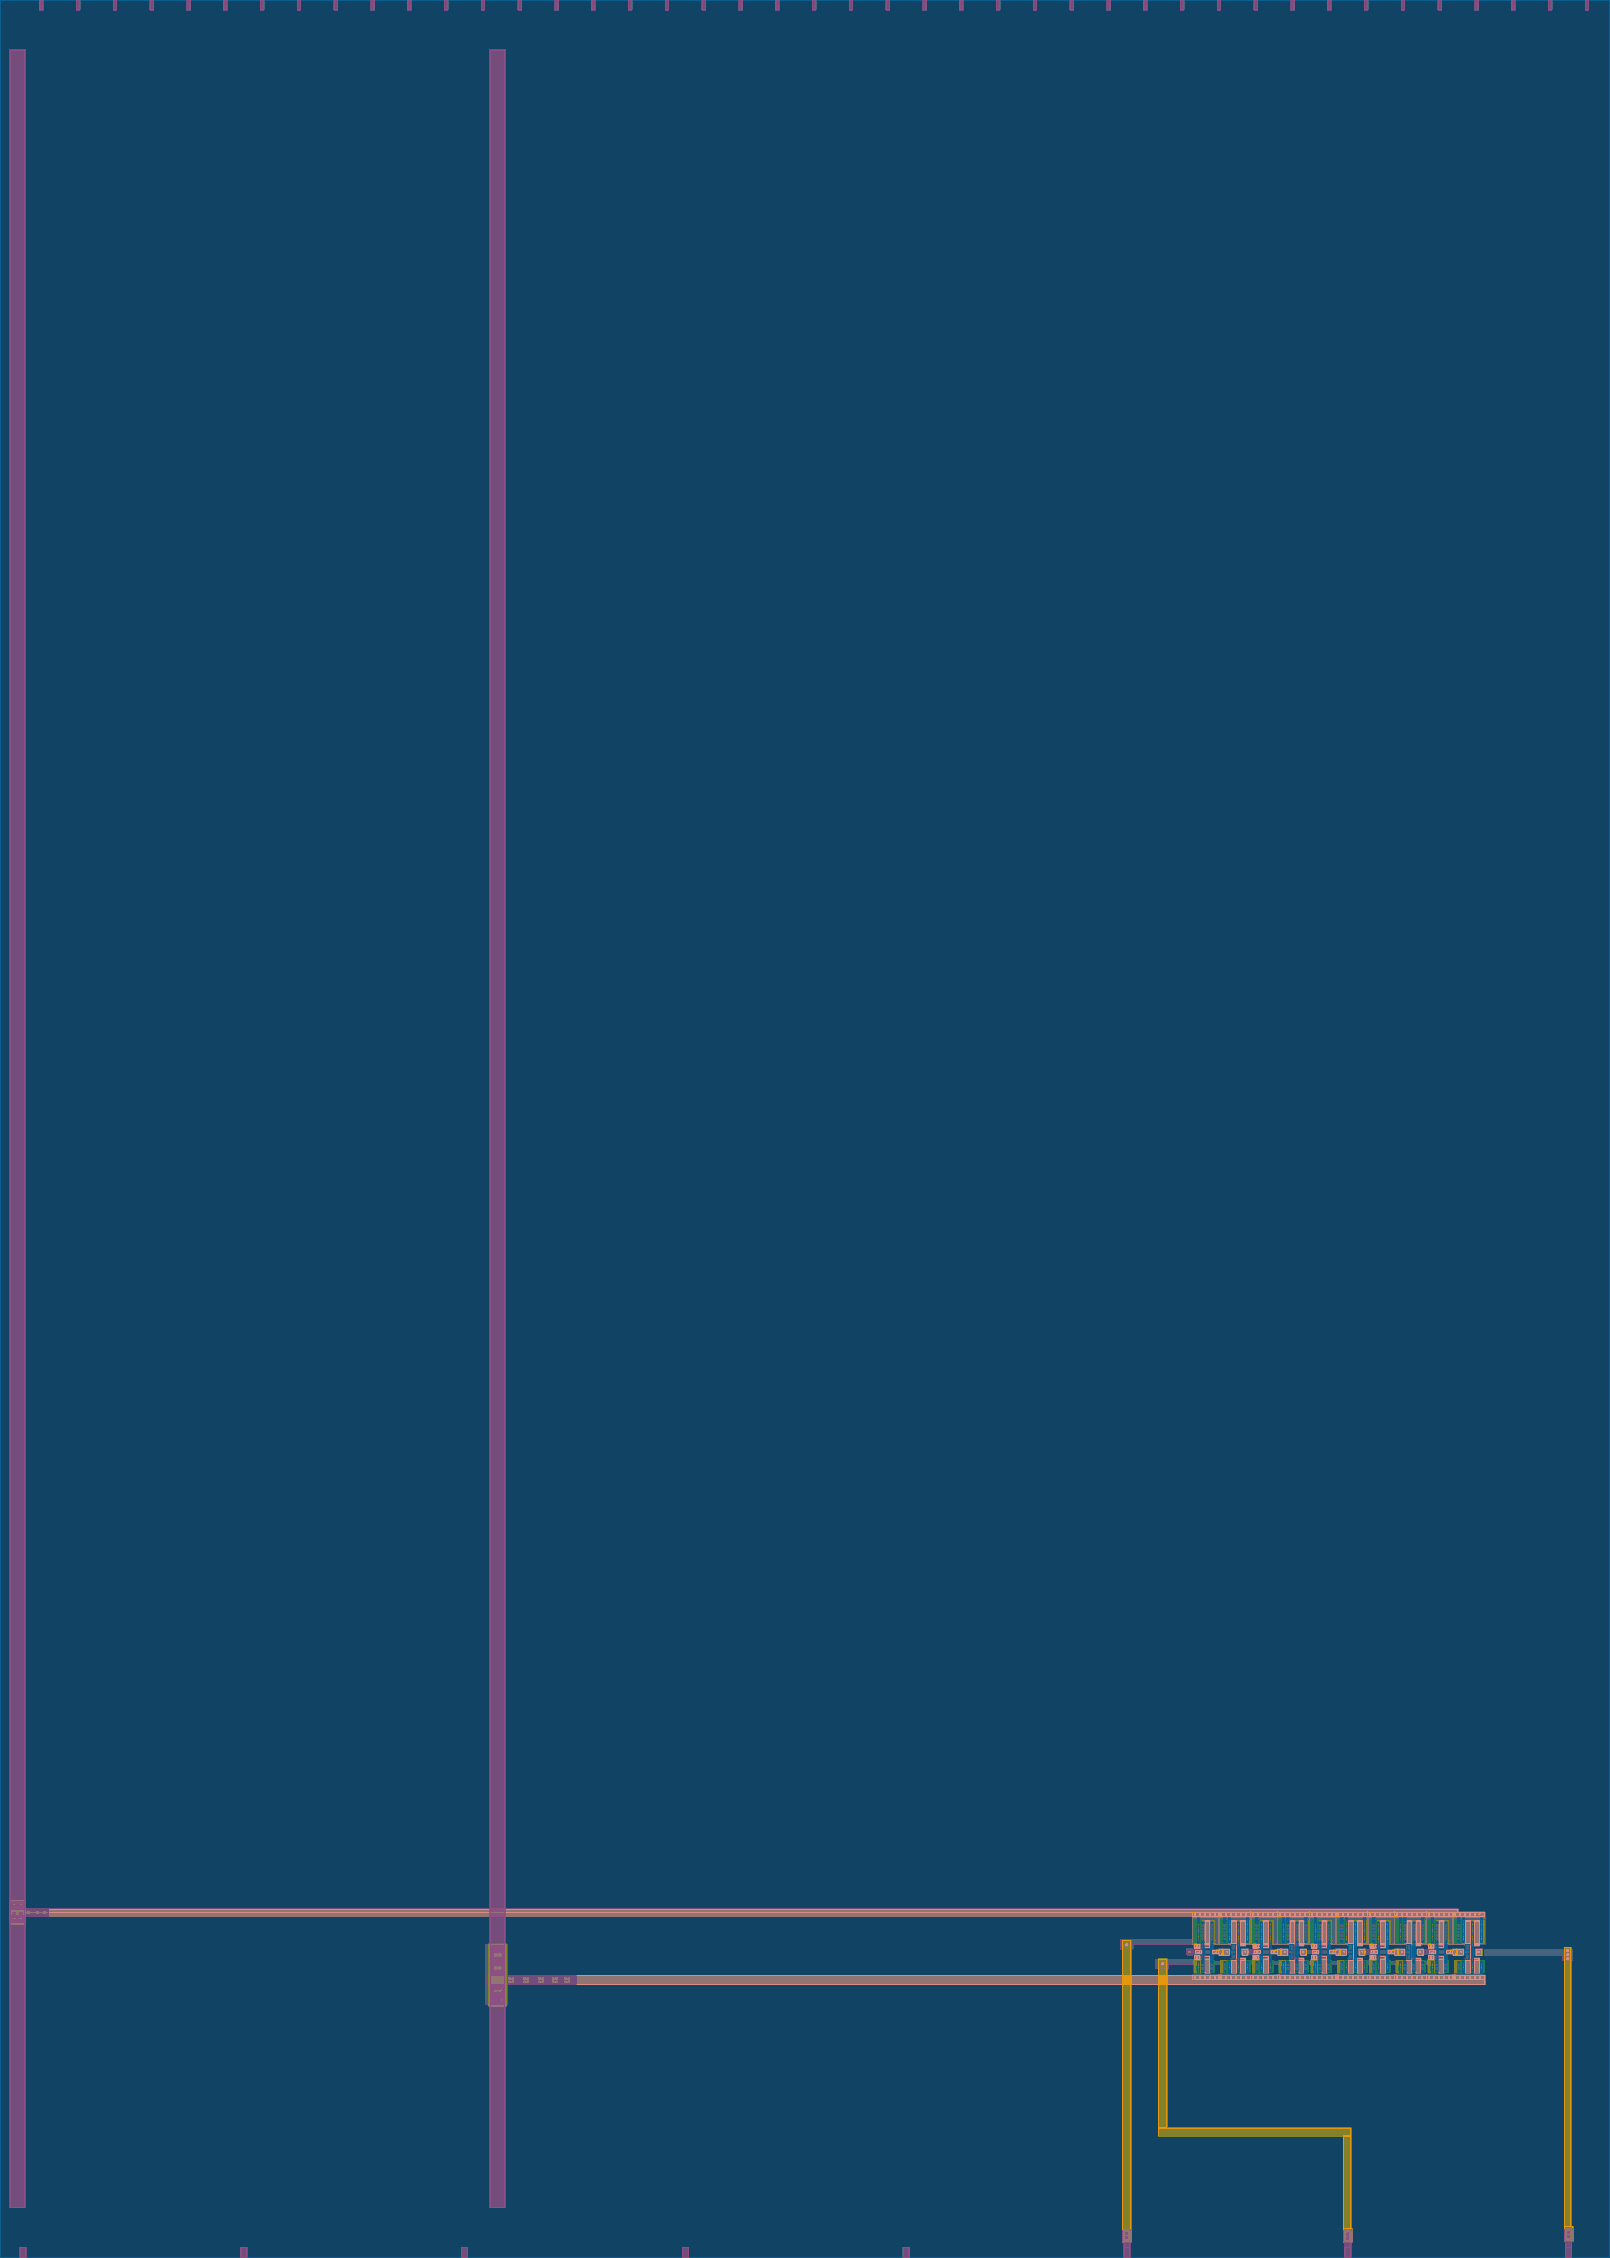
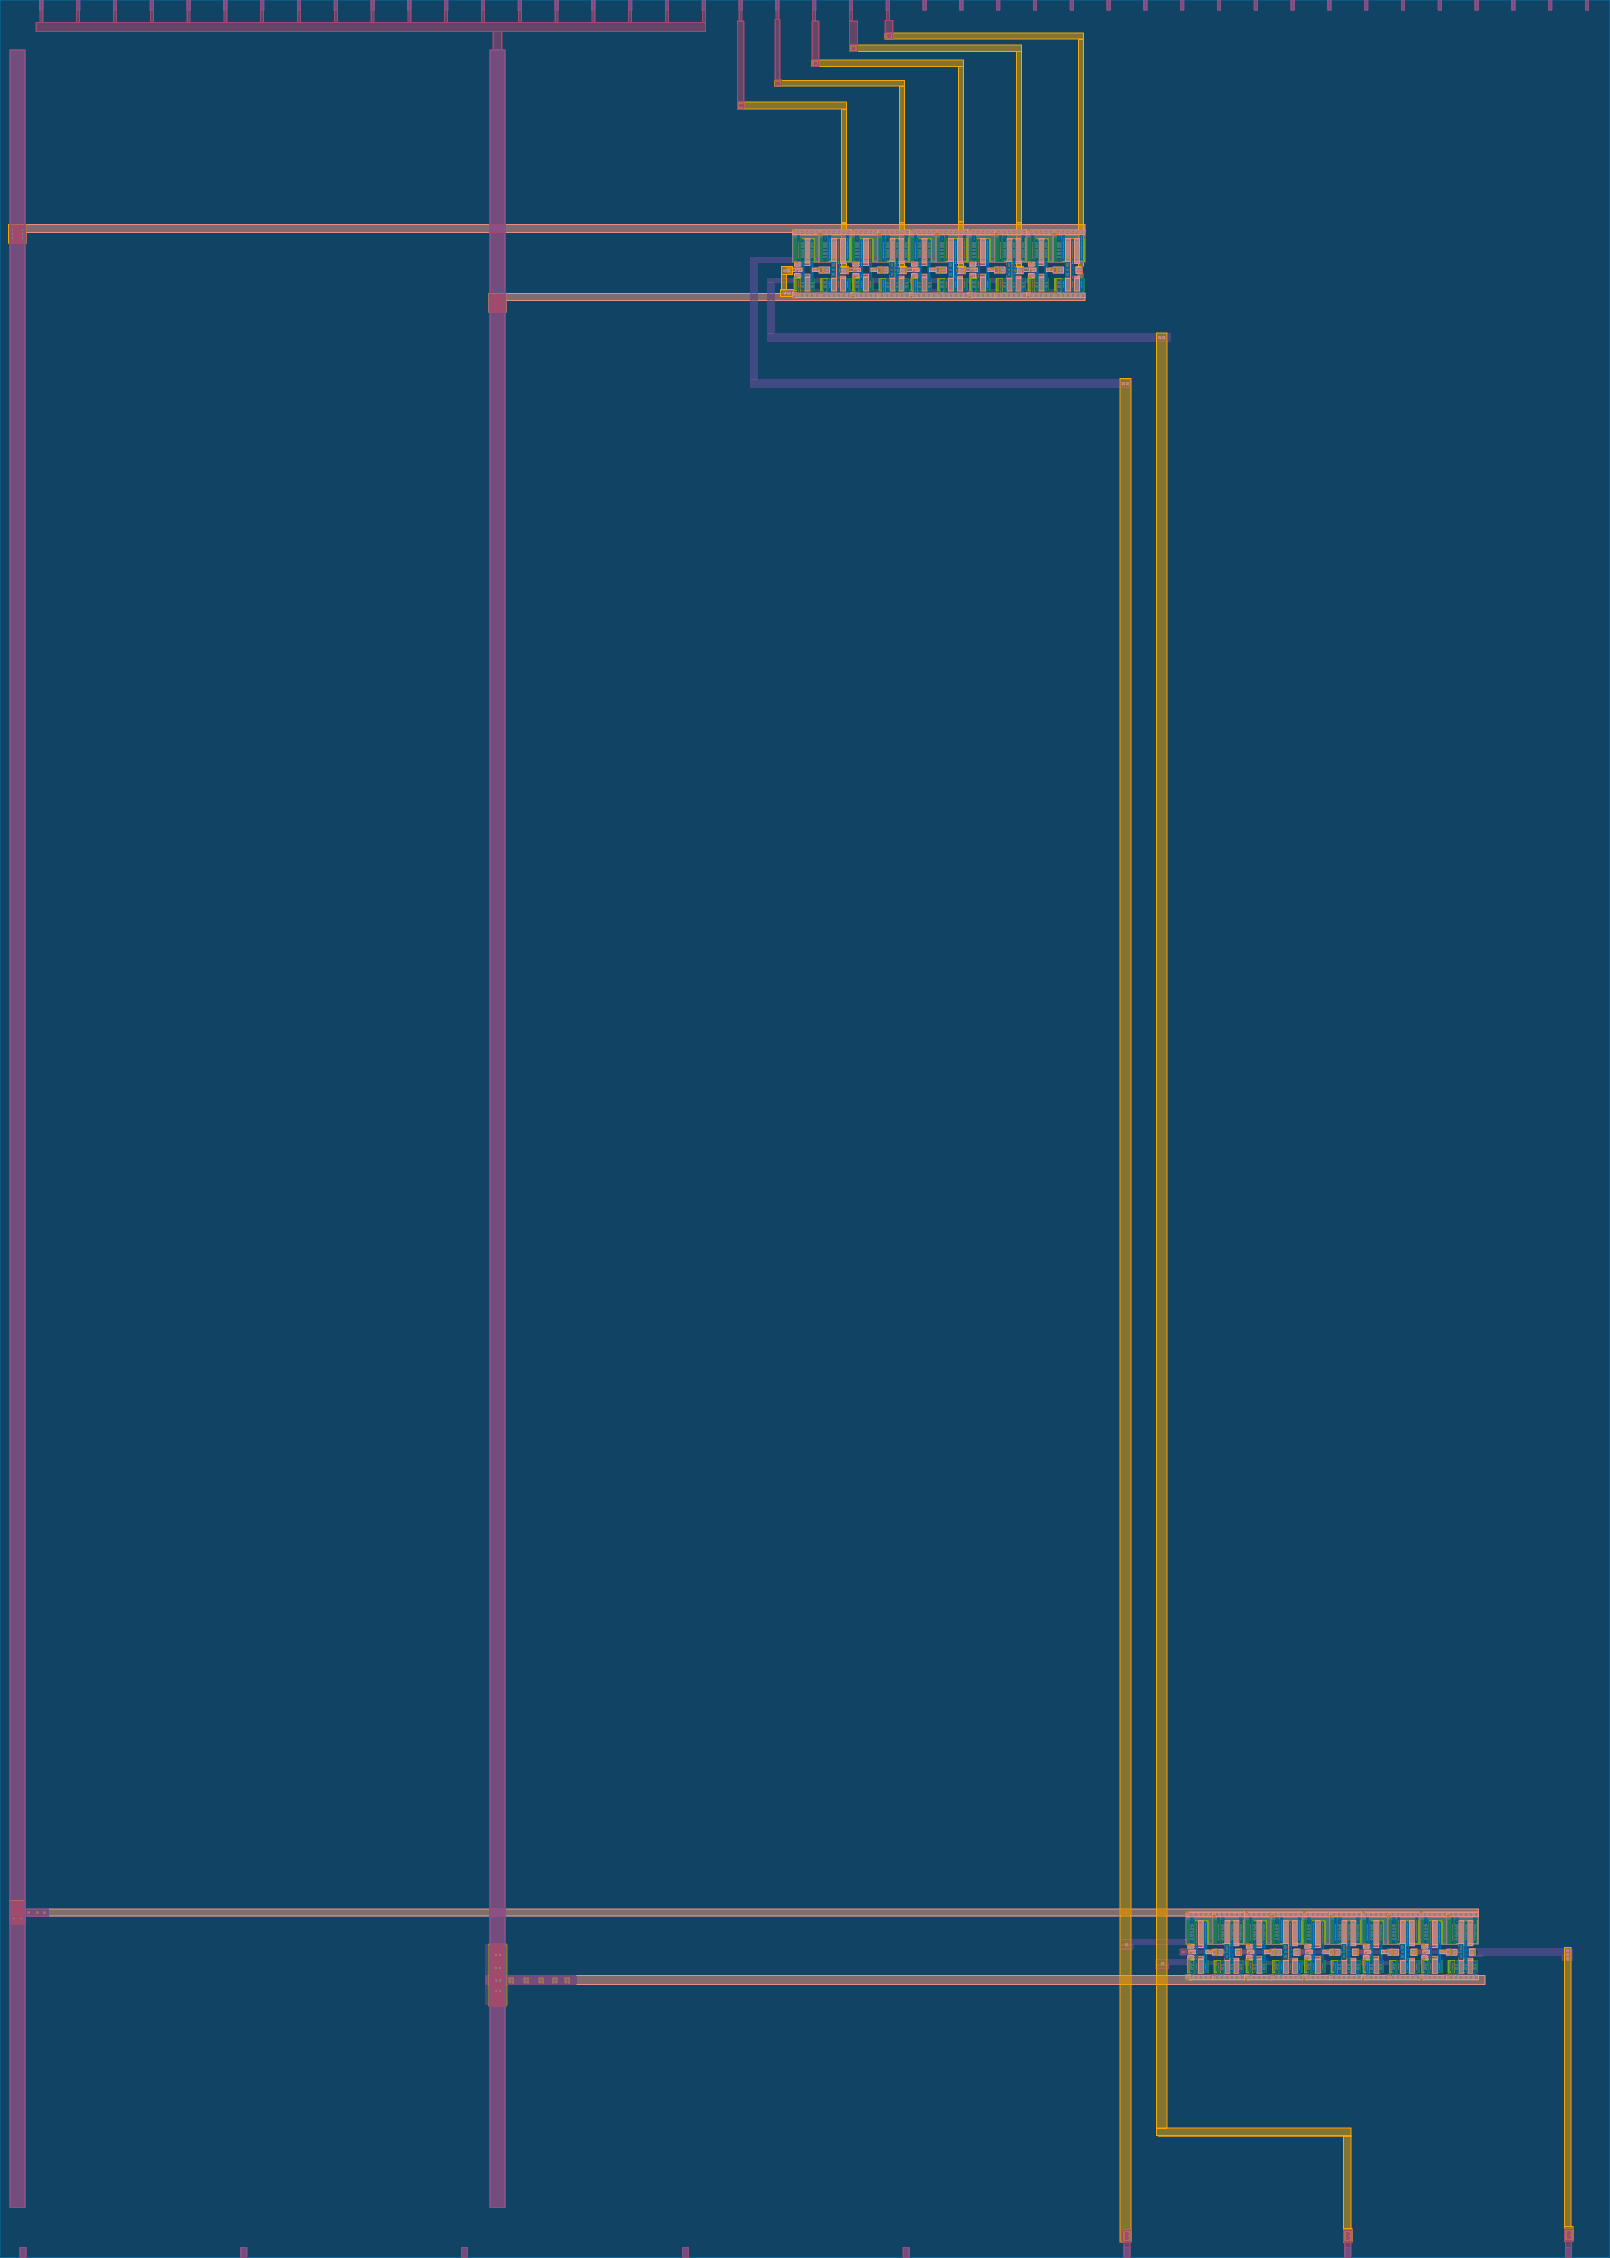
update README.md and pic

Changed region(s): [[0.0, 0.0, 0.9627, 0.899], [0.6832, 0.961, 0.7143, 0.992]]

diff --git a/README.md b/README.md
@@ -23,13 +23,20 @@ Retdian, N., Takagi, S., & Fujii, N. (2002). Voltage controlled ring oscillator 
 
 ## How to Test
 
+There are two VCOs, inputs to both VCO are shared. VCO#1 output is connected to analog pin, VCO#2 outputs on each delay element stage can be observed through digital output pins.
+
 **Pinouts:**
 
 | Pin Name | Description               | Corresponding Signal |
 |----------|---------------------------|----------------------|
-| ua[0]    | Output signal             | out                  |
+| ua[0]    | VCO#1 output signal       | out                  |
 | ua[1]    | Negative control voltage  | vcon_n               |
 | ua[2]    | Positive control voltage  | vcon_p               |
+| uo[0]    | VCO#2 output stage 5      | out5                 |
+| uo[1]    | VCO#2 output stage 4      | out4                 |
+| uo[2]    | VCO#2 output stage 3      | out3                 |
+| uo[3]    | VCO#2 output stage 2      | out2                 |
+| uo[4]    | VCO#2 output stage 1      | out1                 |
 
 **External Hardware**
 
@@ -37,7 +44,7 @@ To test the VCRO (if it works), apply control voltages `vcon_n` and `vcon_p` to 
 
 **Simulation**
 
-The circuit can be simulated with ngspice, please use xschem to open the vcro_5st.sch file and the simulation can be invoked from there, or alternatively the spice netlist can be generated from xschem.
+The circuit can be simulated with ngspice, please use xschem to open the xschem/vcro_5st_tb.sch file and the simulation can be invoked from there, or alternatively the spice netlist can be generated from xschem.
 
 ## Circuit picture
 
